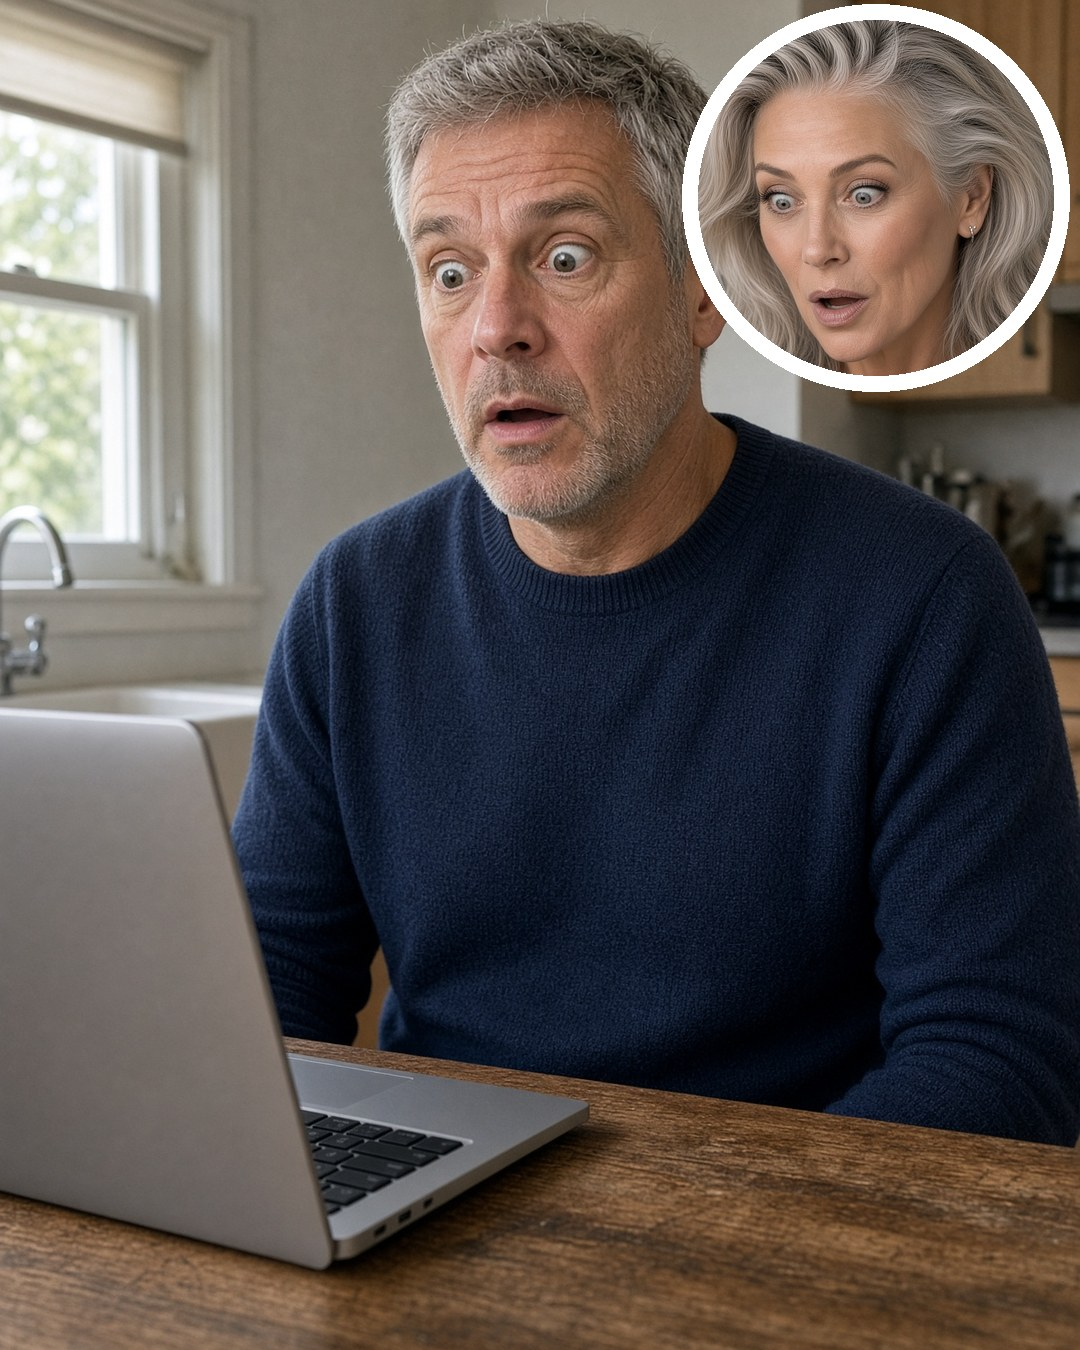
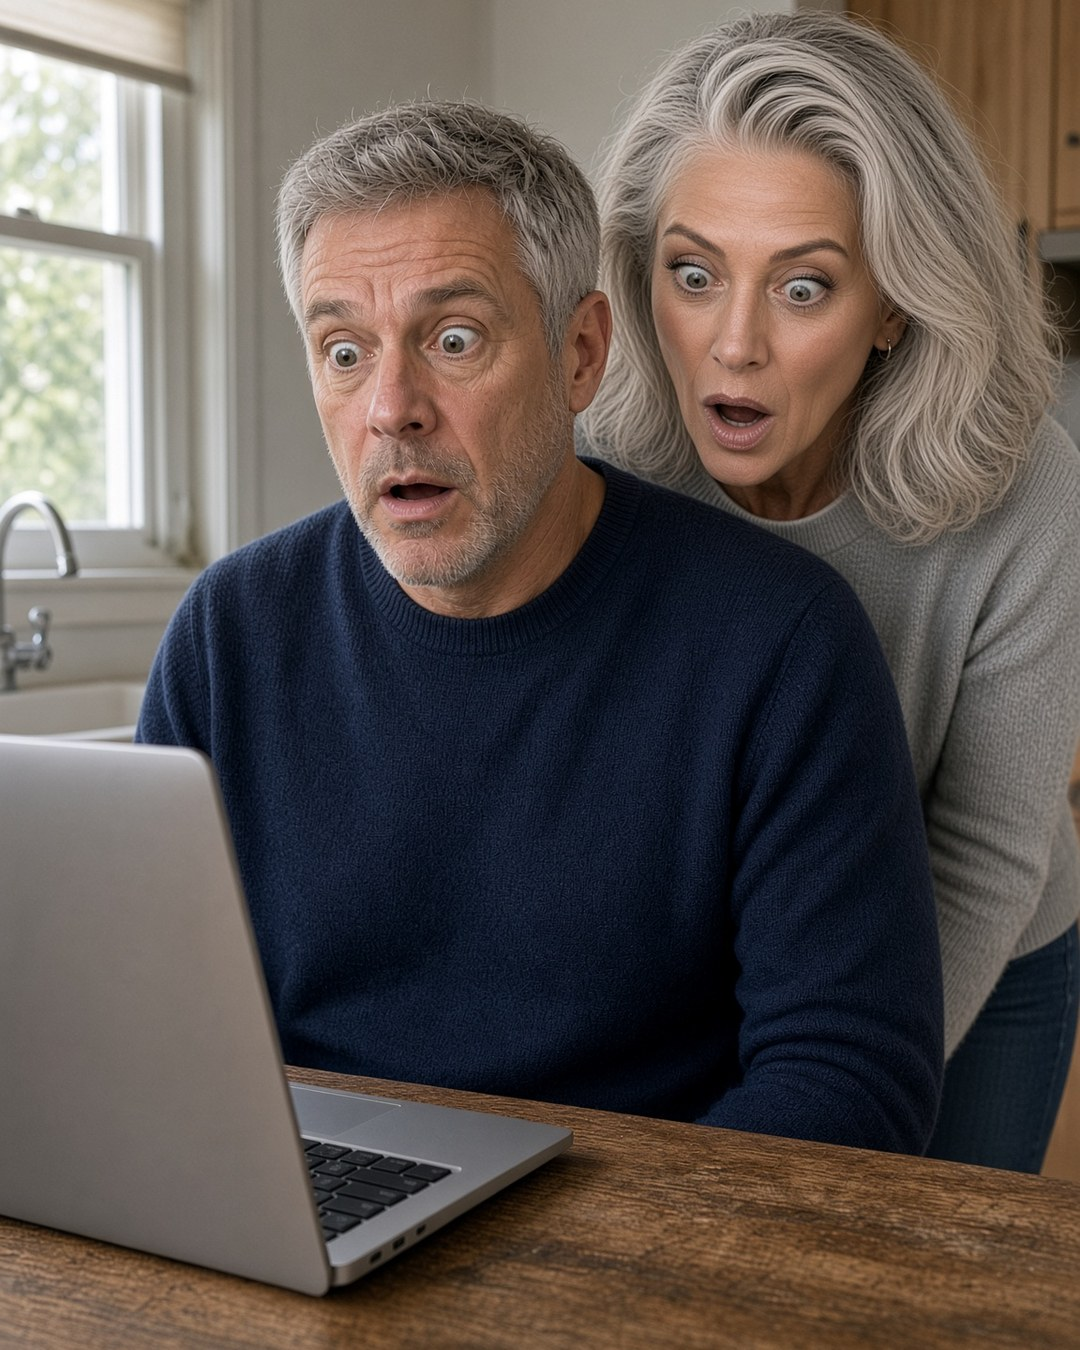
Place the woman behind the man in Ad 3, looking at his laptop.

diff --git a/src/routes/facebook-ads.tsx b/src/routes/facebook-ads.tsx
@@ -201,7 +201,7 @@ function FacebookAds() {
         <AdCard
           kicker="Ad 3 · stop, look, then read"
           image="/facebook-ads/shock.jpg"
-          alt="A grey-haired man looks aside. Bold text on the photo says insurance pros are in shock after a crazy discovery."
+          alt="A shocked woman stands behind a shocked man and looks over his shoulder at the same laptop."
           copy={AD_THREE}
           headline="Insurance Pros Are In Shock"
           description="A crazy discovery that can protect client assets. Click."
